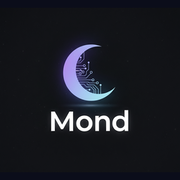
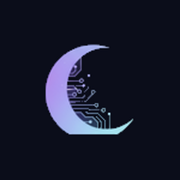
feat(login): 실사 3D 달 + 투명 브랜드 마크 + 파비콘 세트 정리
- Moon3D: 실사 달 텍스처+bump+고정 조명+원형 마스크로 사각 틀 제거
- 로그인 상단 로고를 배경 투명 초승달 마크로 교체
- 파비콘을 텍스트 없는 초승달+네이비 타일 정사각 세트로 일원화(ico/png/pwa)
- v0.3.1 (frontend/package.json, chart, CHANGELOG)

Changed region(s): [[0.25, 0.2222, 0.75, 0.75]]

diff --git a/frontend/src/components/Moon3D.tsx b/frontend/src/components/Moon3D.tsx
@@ -1,105 +1,52 @@
 /**
- * 🌒 Moon3D — Three.js 기반 입체 초승달 (waxing crescent)
+ * 🌕 Moon3D — Three.js 기반 실사 달
  *
- * sphere는 가만히 두고 **directional light**을 sphere 주위로 우방향(시계방향) 공전.
- * 빛이 비치는 lit 영역 = 초승달 silhouette → 시청자에게는 초승달이 회전하듯 보임.
- * sphere 자체도 천천히 자전해서 표면 분화구가 좌→우로 흘러가는 입체감.
+ * 실사 달 텍스처(NASA 출처 lunar color map)를 sphere에 입히고,
+ * 같은 텍스처를 bumpMap으로 재사용해 분화구 요철을 살린다.
+ * 조명은 카메라 정면 약간 위/좌에 **고정** → 보름달에 가까운 은은한 명암(terminator).
+ * sphere는 아주 느리게 자전해 분화구가 흘러가는 입체감만 준다(공전 조명 없음).
  */
 
-import { Canvas, useFrame } from "@react-three/fiber";
-import { useMemo, useRef } from "react";
+import { Canvas, useFrame, useLoader } from "@react-three/fiber";
+import { Suspense, useRef } from "react";
 import * as THREE from "three";
 
 function MoonSphere() {
   const meshRef = useRef<THREE.Mesh>(null);
 
   useFrame((_state, delta) => {
-    if (meshRef.current) meshRef.current.rotation.y += delta * 0.06;
+    // 느린 자전만 — 지구본 autoRotate 같은 차분한 움직임
+    if (meshRef.current) meshRef.current.rotation.y += delta * 0.045;
   });
 
-  const texture = useMemo(() => {
-    if (typeof document === "undefined") return null;
-    const cvs = document.createElement("canvas");
-    cvs.width = 1024;
-    cvs.height = 512;
-    const ctx = cvs.getContext("2d");
-    if (!ctx) return null;
-    ctx.fillStyle = "#c8d8d5";
-    ctx.fillRect(0, 0, cvs.width, cvs.height);
-    for (let i = 0; i < 220; i++) {
-      const x = Math.random() * cvs.width;
-      const y = Math.random() * cvs.height;
-      const r = 4 + Math.random() * 28;
-      const shade = 95 + Math.random() * 70;
-      const grad = ctx.createRadialGradient(x, y, 0, x, y, r);
-      grad.addColorStop(0, `rgba(${shade - 30}, ${shade - 10}, ${shade}, 0.5)`);
-      grad.addColorStop(1, "rgba(0,0,0,0)");
-      ctx.fillStyle = grad;
-      ctx.beginPath();
-      ctx.arc(x, y, r, 0, Math.PI * 2);
-      ctx.fill();
-    }
-    for (let i = 0; i < 5; i++) {
-      const x = Math.random() * cvs.width;
-      const y = 80 + Math.random() * 350;
-      const r = 70 + Math.random() * 130;
-      const grad = ctx.createRadialGradient(x, y, 0, x, y, r);
-      grad.addColorStop(0, "rgba(70, 100, 110, 0.4)");
-      grad.addColorStop(1, "rgba(0,0,0,0)");
-      ctx.fillStyle = grad;
-      ctx.beginPath();
-      ctx.arc(x, y, r, 0, Math.PI * 2);
-      ctx.fill();
-    }
-    const tex = new THREE.CanvasTexture(cvs);
-    tex.wrapS = THREE.RepeatWrapping;
-    tex.wrapT = THREE.ClampToEdgeWrapping;
-    tex.colorSpace = THREE.SRGBColorSpace;
-    return tex;
-  }, []);
+  const texture = useLoader(THREE.TextureLoader, "/moon/moon_color.jpg");
+  texture.colorSpace = THREE.SRGBColorSpace;
+  texture.anisotropy = 4;
 
   return (
-    <mesh ref={meshRef}>
-      <sphereGeometry args={[1, 96, 96]} />
+    // 살짝 기울여 극(pole)이 정면을 향하지 않게 — 자연스러운 시점
+    <mesh ref={meshRef} rotation={[0.12, 0, 0.08]}>
+      <sphereGeometry args={[1, 128, 128]} />
       <meshStandardMaterial
-        map={texture ?? undefined}
-        color="#dceae5"
-        roughness={0.95}
-        metalness={0.02}
-        emissive="#0a1418"
-        emissiveIntensity={0.05}
+        map={texture}
+        bumpMap={texture}
+        bumpScale={0.02}
+        roughness={1}
+        metalness={0}
       />
     </mesh>
   );
 }
 
-function OrbitingLight() {
-  const lightRef = useRef<THREE.DirectionalLight>(null);
-  useFrame((state) => {
-    if (!lightRef.current) return;
-    // 18s 한 바퀴, 시계방향(우방향)
-    const t = state.clock.elapsedTime * ((2 * Math.PI) / 18);
-    const radius = 4;
-    lightRef.current.position.set(Math.cos(t) * radius, 0.4, Math.sin(t) * radius);
-  });
-  return (
-    <directionalLight
-      ref={lightRef}
-      position={[4, 0.4, 0.5]}
-      intensity={3.2}
-      color="#e6f3f0"
-    />
-  );
-}
-
 function AtmosphereGlow() {
+  // 달은 대기가 없지만, 어두운 히어로 위에서 은은한 달무리(halo)로 읽히게 아주 옅게.
   return (
     <mesh>
-      <sphereGeometry args={[1.22, 48, 48]} />
+      <sphereGeometry args={[1.25, 48, 48]} />
       <meshBasicMaterial
-        color="#7fc8c0"
+        color="#cfe0ff"
         transparent
-        opacity={0.07}
+        opacity={0.05}
         side={THREE.BackSide}
         depthWrite={false}
       />
@@ -115,13 +62,14 @@ export interface Moon3DProps {
 export default function Moon3D({ size = 320, className }: Moon3DProps) {
   return (
     <div className={className} style={{ width: size, height: size, position: "relative" }}>
+      {/* 부드러운 원형 달무리 — 마스크된 canvas 가장자리를 히어로 배경에 자연스럽게 녹임 */}
       <div
         aria-hidden
         style={{
           position: "absolute",
-          inset: -size * 0.4,
+          inset: -size * 0.28,
           background:
-            "radial-gradient(circle at center, oklch(82% 0.08 180 / 0.30) 0%, oklch(60% 0.10 250 / 0.16) 38%, transparent 68%)",
+            "radial-gradient(circle at center, oklch(80% 0.06 230 / 0.18) 0%, transparent 60%)",
           pointerEvents: "none",
         }}
       />
@@ -129,12 +77,22 @@ export default function Moon3D({ size = 320, className }: Moon3DProps) {
         camera={{ position: [0, 0, 3.0], fov: 38 }}
         gl={{ alpha: true, antialias: true, powerPreference: "high-performance" }}
         dpr={[1, 2]}
-        style={{ background: "transparent" }}
+        style={{
+          background: "transparent",
+          // 정사각 canvas의 네 모서리를 원형으로 잘라내 사각 틀 제거
+          WebkitMaskImage:
+            "radial-gradient(circle at 50% 50%, #000 66%, transparent 72%)",
+          maskImage: "radial-gradient(circle at 50% 50%, #000 66%, transparent 72%)",
+        }}
       >
-        <ambientLight intensity={0.04} color="#5a8086" />
+        {/* 어두운 면도 살짝 보이는 earthshine 느낌의 옅은 환경광 */}
+        <ambientLight intensity={0.18} color="#8fa8c8" />
+        {/* 정면 약간 위/좌 고정 조명 — 부드러운 gibbous terminator */}
+        <directionalLight position={[-1.4, 1.1, 3]} intensity={2.4} color="#fff6ea" />
         <AtmosphereGlow />
-        <OrbitingLight />
-        <MoonSphere />
+        <Suspense fallback={null}>
+          <MoonSphere />
+        </Suspense>
       </Canvas>
     </div>
   );

diff --git a/frontend/index.html b/frontend/index.html
@@ -7,8 +7,10 @@
     <meta name="description" content="🌙 Mond — AI-Powered Self-Service DevSecOps Platform" />
 
     <!-- Favicon / 앱 아이콘 -->
-    <link rel="icon" type="image/png" sizes="32x32"  href="/logo-32.png" />
-    <link rel="icon" type="image/png" sizes="96x96"  href="/logo-96.png" />
+    <link rel="icon" href="/favicon.ico" sizes="any" />
+    <link rel="icon" type="image/png" sizes="16x16" href="/favicon-16.png" />
+    <link rel="icon" type="image/png" sizes="32x32" href="/favicon-32.png" />
+    <link rel="icon" type="image/png" sizes="96x96" href="/favicon-96.png" />
     <link rel="apple-touch-icon" sizes="180x180" href="/apple-touch-icon.png" />
     <link rel="manifest" href="/site.webmanifest" />
 

diff --git a/frontend/src/pages/Login.tsx b/frontend/src/pages/Login.tsx
@@ -75,7 +75,7 @@ export default function Login() {
       <div className="login-hero">
         {/* mark — 좌상단 고정 */}
         <div className="login-mark">
-          <img src="/logo.png" alt="Mond" width={26} height={26} />
+          <img src="/logo-mark.png" alt="Mond" width={26} height={26} />
           <span style={{ fontWeight: 600, letterSpacing: "-0.01em", fontSize: 17 }}>
             Mond
           </span>

diff --git a/CHANGELOG.md b/CHANGELOG.md
@@ -6,6 +6,15 @@
 
 ## [Unreleased]
 
+## [0.3.1] — 2026-07-16
+
+로그인 화면 히어로와 브랜드 아이콘 다듬기. 기능 변경 없음(UI/자산).
+
+### Changed
+- **로그인 3D 달 리얼리즘** — 캔버스 절차생성 텍스처 + 공전 조명(초승달이 빙빙 도는 어색함)을 걷어내고, 실사 달 텍스처(lunar color map) + bump로 분화구 요철, 고정 조명의 은은한 명암(terminator), 차분한 자전으로 교체. 정사각 캔버스 모서리는 원형 마스크로 잘라 배경의 사각 틀 제거.
+- **브랜드 마크 정리** — 로그인 상단 로고를 배경/텍스트가 박힌 앱 아이콘 대신 배경 투명 초승달 마크(`logo-mark.png`)로 교체.
+- **파비콘 세트 일원화** — 텍스트 없는 초승달을 네이비 브랜드 타일에 얹은 정사각 세트(`favicon.ico` + 16/32/96 PNG + apple-touch 180 + PWA 192/512 maskable)로 재구성하고 `index.html`·`site.webmanifest` 재연결. 비정사각·미참조 구 아이콘 정리.
+
 ## [0.3.0] — 2026-06-22
 
 v0.2의 기능 골격 위에 **운영 가시성 · 멀티-tenant · 한국 인증 대응 · 외부 LLM/Git 확장**을 더했다. 10개 PR.
